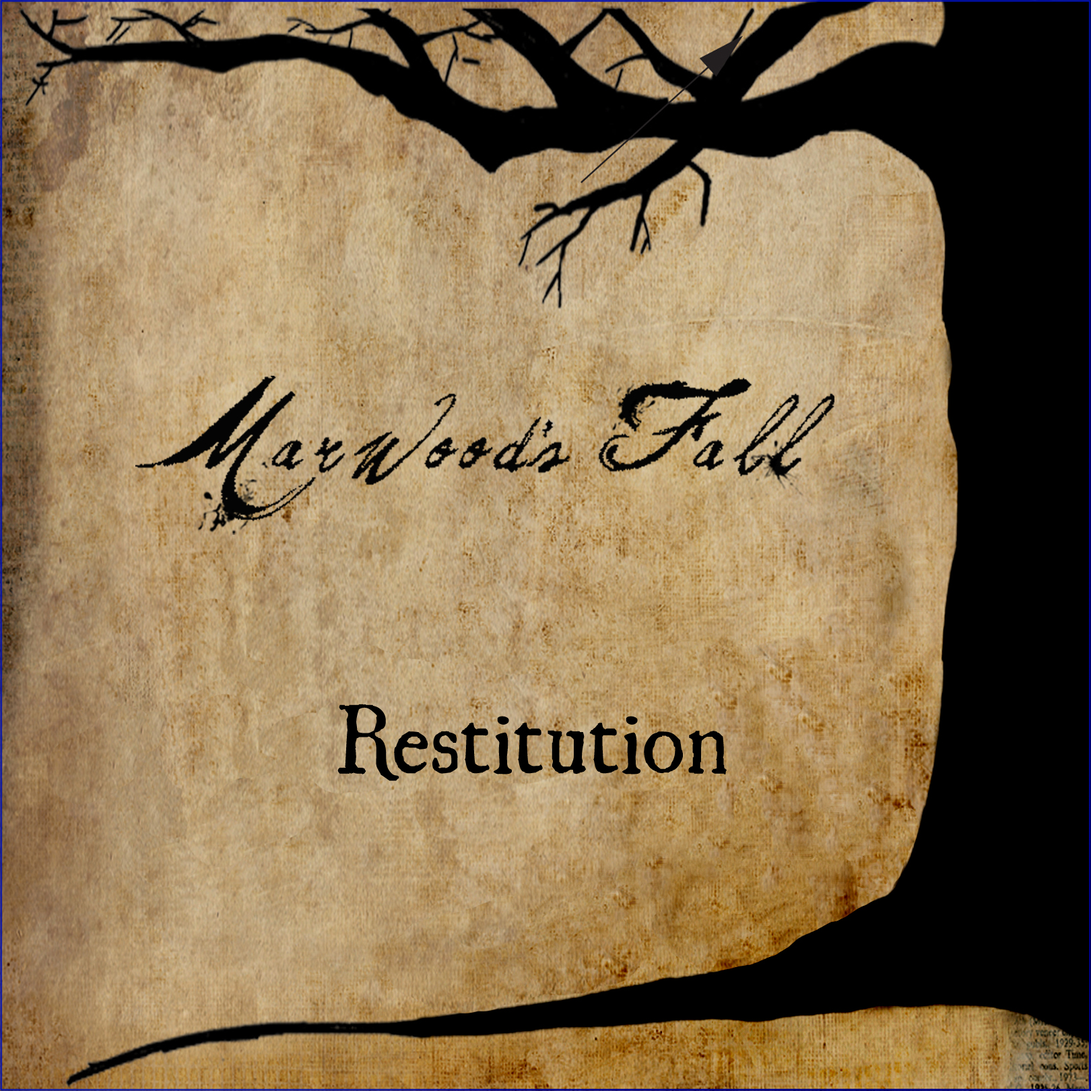
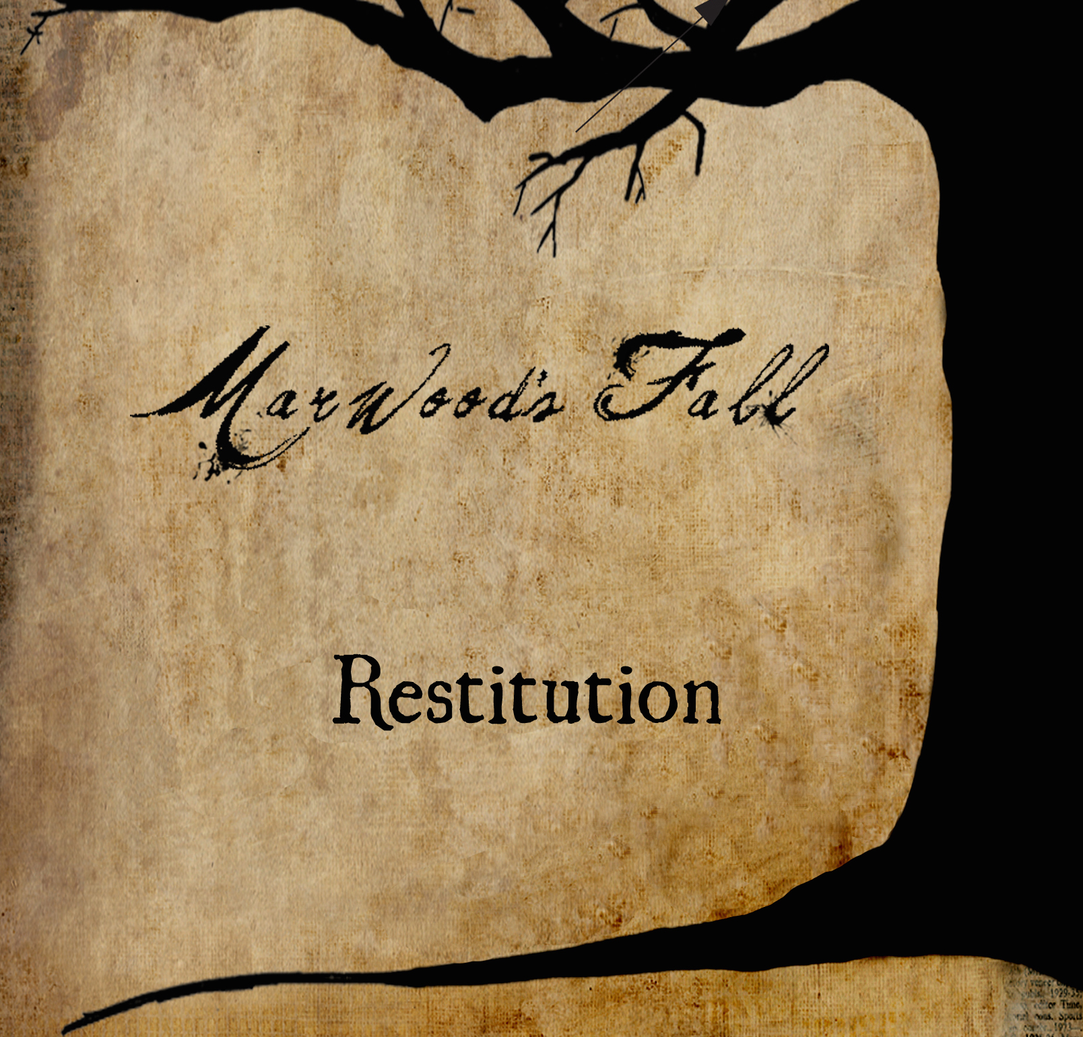
Polishing card flip style

Changed region(s): [[0.0, 0.0, 1.0, 1.0], [0.2488, 0.7173, 0.3109, 0.7797], [0.1244, 0.1871, 0.1555, 0.2183]]

diff --git a/web/pages/music.html b/web/pages/music.html
@@ -18,33 +18,35 @@
                 <h1>Discography</h1>
                 <!-- Thanks David Walsh : https://davidwalsh.name/css-flip -->
                 <div class="row music-player-panel">
-                    <div class="flip-panel col-xs-8 col-xs-push-2" ontouchstart="this.classList.toggle('hover');">
-                        <div class="flipper">
-                            <div class="flip-front">
-                                <h2>Judgement Is Coming</h2>
-                                <h3>2016</h3>
-                            </div>
-                            <div class="flip-back">
-                                <iframe style="border: 0; width: 100%; height: 307px;" src="https://bandcamp.com/EmbeddedPlayer/album=3813353207/size=large/bgcol=ffffff/linkcol=63b2cc/artwork=small/transparent=true/" seamless>
-                                    <a href="http://marwoodsfall.bandcamp.com/album/judgement-is-coming">Judgement Is Coming by Marwood&#39;s Fall</a>
-                                </iframe>
+                    <div class="col-xs-12 col-md-6">
+                        <div class="flip-panel" ontouchstart="this.classList.toggle('hover');">
+                            <div class="flipper">
+                                <div class="judgement-front">
+                                </div>
+                                <div class="judgement-back">
+                                    <iframe style="border: 0; width: 100%; height: 307px;" src="https://bandcamp.com/EmbeddedPlayer/album=3813353207/size=large/bgcol=ffffff/linkcol=63b2cc/artwork=small/transparent=true/" seamless>
+                                        <a href="http://marwoodsfall.bandcamp.com/album/judgement-is-coming">Judgement Is Coming by Marwood&#39;s Fall</a>
+                                    </iframe>
+                                </div>
                             </div>
                         </div>
+                        <h2>Judgement Is Coming</h2>
+                        <h3>2016</h3>
                     </div>
-                </div>
-                <div class="row music-player-panel">
-                    <div class="flip-panel col-xs-8 col-xs-push-2" ontouchstart="this.classList.toggle('hover');">
-                        <div class="flipper">
-                            <div class="flip-front">
-                                <h2>Restitution</h2>
-                                <h3>2013</h3>
-                            </div>
-                            <div class="flip-back">
-                                <iframe style="border: 0; width: 100%; height: 307px;" src="https://bandcamp.com/EmbeddedPlayer/album=2324723573/size=large/bgcol=ffffff/linkcol=63b2cc/artwork=small/transparent=true/" seamless>
-                                    <a href="http://marwoodsfall.bandcamp.com/album/restitution">Restitution by Marwood&#39;s Fall</a>
-                                </iframe>
+                    <div class="col-xs-12 col-md-6">
+                        <div class="flip-panel" ontouchstart="this.classList.toggle('hover');">
+                            <div class="flipper">
+                                <div class="restitution-front">
+                                </div>
+                                <div class="restitution-back">
+                                    <iframe style="border: 0; width: 100%; height: 307px;" src="https://bandcamp.com/EmbeddedPlayer/album=2324723573/size=large/bgcol=ffffff/linkcol=63b2cc/artwork=small/transparent=true/" seamless>
+                                        <a href="http://marwoodsfall.bandcamp.com/album/restitution">Restitution by Marwood&#39;s Fall</a>
+                                    </iframe>
+                                </div>
                             </div>
                         </div>
+                        <h2>Restitution</h2>
+                        <h3>2013</h3>
                     </div>
                 </div>
             </div>

diff --git a/web/styles/style.css b/web/styles/style.css
@@ -47,11 +47,6 @@ body {
     margin: 10px 0;
 }
 
-.band-pic {
-    background-image: url('../resources/images/Marwood_Backstage.jpg');
-    background-size: fill;
-}
-
 .bio-container-1 {
     background-image: url('../resources/images/HOB-crowd.jpg');
     background-size: cover;
@@ -74,48 +69,6 @@ body {
 .bio-text {
     font-family: Avenir next, sans-serif;
     text-align: justify;
-}
-
-.flip-panel {
-    perspective: 1000px;
-}
-.flip-panel:hover .flipper,
-.flip-panel.hover .flipper {
-    transform: rotateY(180deg);
-}
-
-.flip-panel,
-.flip-front,
-.flip-back {
-    width: 700px;
-    height: 307px;
-}
-
-.flipper {
-    transition: 0.6s;
-    transform-style: preserve-3d;
-    position: relative;
-}
-
-.flip-front,
-.flip-back {
-	backface-visibility: hidden;
-	position: absolute;
-	top: 0;
-	left: 0;
-}
-
-.flip-front {
-	z-index: 2;
-	/* for firefox 31 */
-	transform: rotateY(0deg);
-    background-image: url('../resources/images/judgementTitle2.jpg');
-}
-
-/* back, initially hidden pane */
-.flip-back {
-	transform: rotateY(180deg);
-    background-color: #FFFFFF;
 }
 
 /* Shows */
@@ -168,6 +121,73 @@ body {
 div.music-player-panel {
     padding: 20px;
     border-bottom: 1px solid #FFFFFF
+}
+
+/* Music */
+.flip-panel {
+    perspective: 1200px;
+    margin-bottom: 30px;
+}
+
+.flip-panel:hover .flipper,
+.flip-panel.hover .flipper {
+    transform: rotateY(180deg);
+}
+
+.flip-panel,
+.judgement-front,
+.restitution-front,
+.judgement-back, .restitution-back {
+    width: 400px;
+    height: 400px;
+}
+
+.flipper {
+    transition: 0.6s;
+    transform-style: preserve-3d;
+    position: relative;
+}
+
+.judgement-front,
+.restitution-front,
+.judgement-back, .restitution-back {
+	backface-visibility: hidden;
+	position: absolute;
+	top: 20px;
+}
+
+.judgement-front,
+.restitution-front {
+    left: calc(50% - 100px);
+}
+
+.judgement-back,
+.restitution-back {
+    left: calc(100px - 50%);
+}
+
+.judgement-front,
+.restitution-front {
+	z-index: 2;
+	/* for firefox 31 */
+	transform: rotateY(0deg);
+    background-size: cover;
+}
+
+.restitution-front {
+    background-image: url('../resources/images/Restitution_Cover.jpg');
+
+}
+
+.judgement-front {
+    background-image: url('../resources/images/Judgement_Cover.jpg');
+}
+
+/* back, initially hidden pane */
+.judgement-back,
+.restitution-back {
+	transform: rotateY(180deg);
+    background-color: #FFFFFF;
 }
 
 @media (max-width: 549px) {

diff --git a/web/pages/about.html b/web/pages/about.html
@@ -43,12 +43,7 @@
                     </div>
                 </div>
                 <div class="row panel-black">
-                    <!-- <div class="container-fluid"> -->
-                        <!-- <div class="col-xs-12"> -->
-                            <!-- <h1>Meet the band</h1> -->
-                            <img class="photo-fill" src="../resources/images/Marwood_Backstage.jpg"/>
-                        <!-- </div> -->
-                    <!-- </div> -->
+                    <img class="photo-fill" src="../resources/images/Marwood_Backstage.jpg"/>
                 </div>
                 <div class="row bio-container-1">
                     <div class="row bio-panel">
@@ -60,7 +55,6 @@
                                 <h3 class="bio-text">Influences:</h3>
                                 <p class="bio-text">Ben's greatest musical
                                 influences include...</p>
-
                                 <h3 class="bio-text">Ben Plays:</h3>
                                 <p class="bio-text">Bass: Ibanez ATK800E Premium 4-String</p>
                                 <p class="bio-text">Head: Ashdown ABM 900 EVO III</p>
